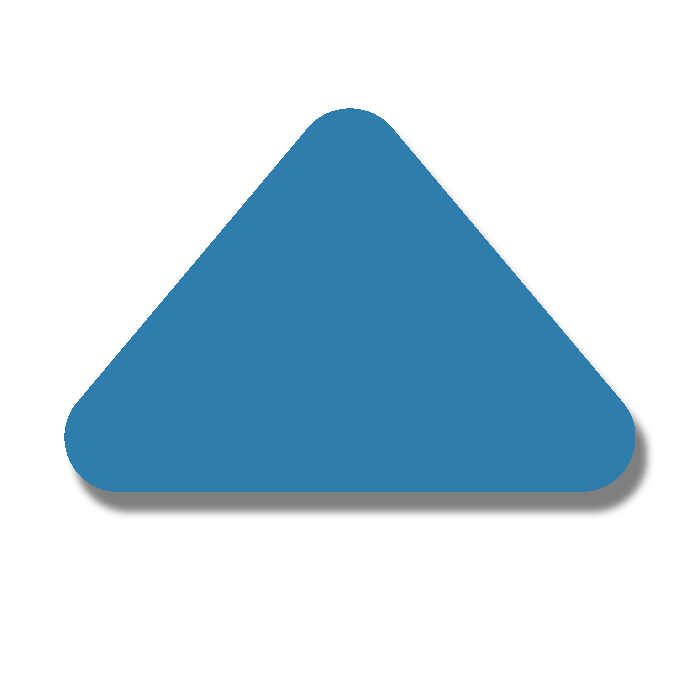
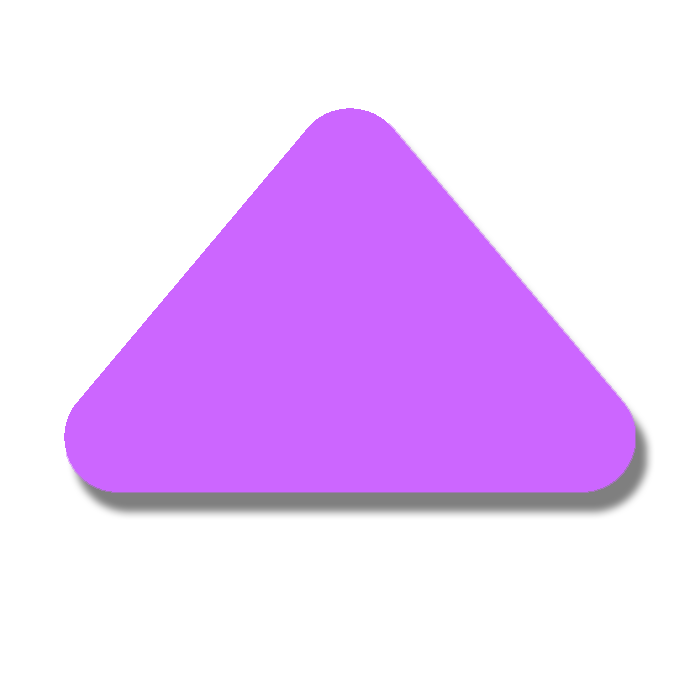
final

Changed region(s): [[0.09, 0.15, 0.93, 0.72]]

diff --git a/css/style.css b/css/style.css
@@ -6,6 +6,10 @@ header{
     position:relative;
 }
 
+body{
+    background-color: #333333;
+}
+
 nav{
     z-index: 1;
     position:fixed;
@@ -20,13 +24,17 @@ nav{
     font-style: normal;
     font-weight: bold;
 
-    background: #2F7DAC;
-    border: 0 solid #FFFFFF;
+    background: #333333;
+    border: 0.2em solid #CC66FF;
     border-radius:0 100% 100% 0;
 }
 
+a{
+    color:#CC66FF;
+}
+
 nav a{
-    color:white;
+    color:#CC66FF;
 }
 
 section{
@@ -48,8 +56,8 @@ img{
 }
 
 .game{
-    width:10em;
-    height:10em;
+    width:15em;
+    height:15em;
 }
 
 #programs{
@@ -60,7 +68,7 @@ img{
 h3{
     font-size: 4.4em;
     text-align: center;
-    color:#2F7DAC;
+    color:#CC66FF;
     margin: 1em 0 0.5em;
 
     font-family: Verdana;
@@ -74,7 +82,7 @@ h3{
     top:1em;
     left:2em;
     font-size:10em;
-    color:#2F7DAC;
+    color:#CC66FF;
 
     font-family: Verdana;
     font-style: normal;
@@ -85,7 +93,7 @@ h3{
 h1{
     font-size:2em;
     text-align: center;
-    color:#2F7DAC;
+    color:#CC66FF;
 
     font-family: Verdana;
     font-style: normal;
@@ -97,7 +105,7 @@ h1{
     position:relative;
     height:0%;
     padding-top:100%;
-    background: #FFFFFF;
+    background: #333333;
     border: 0.1em solid #6F6F6F;
     box-sizing: border-box;
     box-shadow: 0px 0px 5px rgba(0, 0, 0, 0.5), inset 0px 0px 20px rgba(0, 0, 0, 0.1), inset 0px 0px 20px rgba(0, 0, 0, 0.1);
@@ -129,15 +137,16 @@ h1{
     position:absolute;
     width:3.9em;
     height: 1.5em;
-    top:0.1em;
+    top:-0.1em;
     left:-0.6em;
     text-align: center;
-    color: white;
+    color: 333333;
     transform:rotate(-25deg);
     font-size:1.5em;
+    color:#CC66FF;
 
-    background: #2F7DAC;
-    border: 0.1em solid #FFFFFF;
+    background: #333333;
+    border: 0.1em solid #CC66FF;
     border-radius:1em;
 
     font-family: Verdana;
@@ -165,7 +174,7 @@ h1{
     bottom:1em;
     left:0.5em;
     font-size: 1.2em;
-    color:#2F7DAC;
+    color:#CC66FF;
 
 
     font-family: Verdana;
@@ -180,7 +189,7 @@ h1{
     top: 1em;
     font-size:1.5em;
     text-align: center;
-    color:#2F7DAC;
+    color:#CC66FF;
 
     font-family: Verdana;
     font-style: normal;
@@ -228,12 +237,13 @@ h1{
 
 #underground{
     margin-top: 5em;
-    background: radial-gradient(circle farthest-corner at 1000px 1000px, #ffffff, #b9e4ff);
+    background:#333333;
     font-size: 1em;
     padding-left: 1em;
     padding-top: 1em;
     padding-bottom: 1em;
-    color:white;
+    color:#CC66FF;
+    border: 0.1em solid #CC66FF;
 
     font-family: Verdana;
     font-style: normal;

diff --git a/index.html b/index.html
@@ -72,12 +72,24 @@
     <section id="underground">
         <!--Секция подвала-->
         <div>Mail: maxim2005ua@mail.ru</div>
-        <div>YouTube: https://www.youtube.com/channel/UCXU2TSERf9bLbmLPrSd17zQ</div>
-        <div>Coub: https://coub.com/stkerrigan</div>
-        <div>osu: https://osu.ppy.sh/users/15074975</div>
-        <div>GitHub: https://github.com/Maxim-2005</div>
-        <div>Twitch: https://www.twitch.tv/stkerrigan</div>
-        <div>Steam: https://steamcommunity.com/profiles/76561198334119052</div>
+        <a href="https://www.youtube.com/channel/UCXU2TSERf9bLbmLPrSd17zQ">
+            YouTube: https://www.youtube.com/channel/UCXU2TSERf9bLbmLPrSd17zQ
+        </a>
+        <a href="https://coub.com/stkerrigan">
+            Coub: https://coub.com/stkerrigan
+        </a>
+        <a href="https://osu.ppy.sh/users/15074975">
+            osu: https://osu.ppy.sh/users/15074975
+        </a>
+        <a href="https://github.com/Maxim-2005">
+            GitHub: https://github.com/Maxim-2005
+        </a>
+        <a href="https://www.twitch.tv/stkerrigan">
+            Twitch: https://www.twitch.tv/stkerrigan
+        </a>
+        <a href="https://steamcommunity.com/profiles/76561198334119052">
+            Steam: https://steamcommunity.com/profiles/76561198334119052
+        </a>
     </section>
     <footer class='footer'>
         <img id='up' class='logo' src="img/Arrow_up.png"/>

diff --git a/js/Life/script.js b/js/Life/script.js
@@ -99,7 +99,7 @@ function arrNew(param=0){
 
 function drawLines(){
     ctx.lineWidth=0.25; 
-    ctx.strokeStyle="DeepSkyBlue";
+    ctx.strokeStyle= "#CC66FF";
     // Горизонтальные линии
     ctx.beginPath();
     for(let i=0; i<height; i+=size){
@@ -147,7 +147,7 @@ function copyArr(arr){
 }
 
 function drawCell(){
-    ctx.fillStyle="DeepSkyBlue";
+    ctx.fillStyle="#CC66FF";
     for(let i=0; i<row; i++){
         for(let j=0; j<col; j++){
             if (arr[i][j]){

diff --git a/js/Life/style.css b/js/Life/style.css
@@ -3,16 +3,16 @@ html, body{
     height: 100%;
     margin: 0;
     padding: 0;
-    background-color: black;
+    background-color: #333333;
 }
 
 button{
-    color:DeepSkyBlue;
+    color:#CC66FF;
     font-weight: bold;
     width: 5em;
     padding: 2px;
     border-radius: 10px;
-    background-color: black;
+    background-color: #333333;
 }
 
 #buttons{
